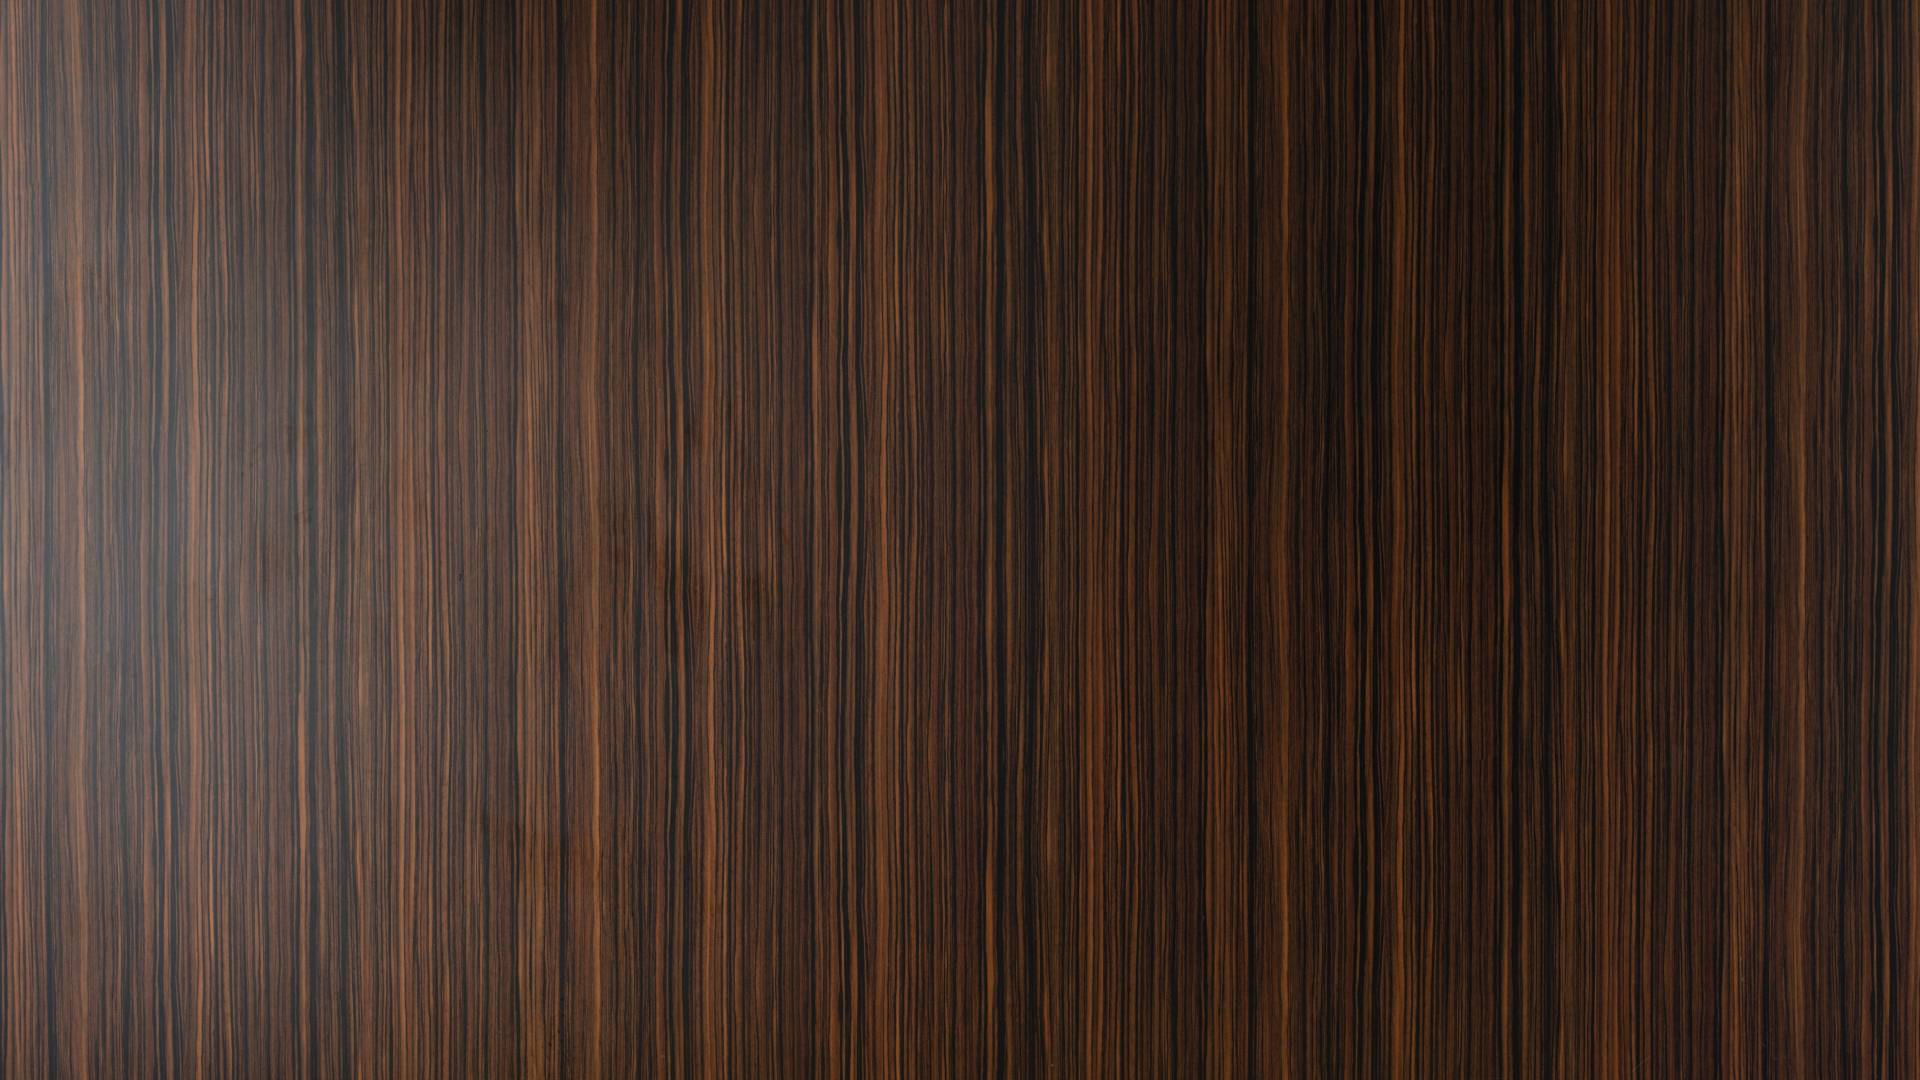
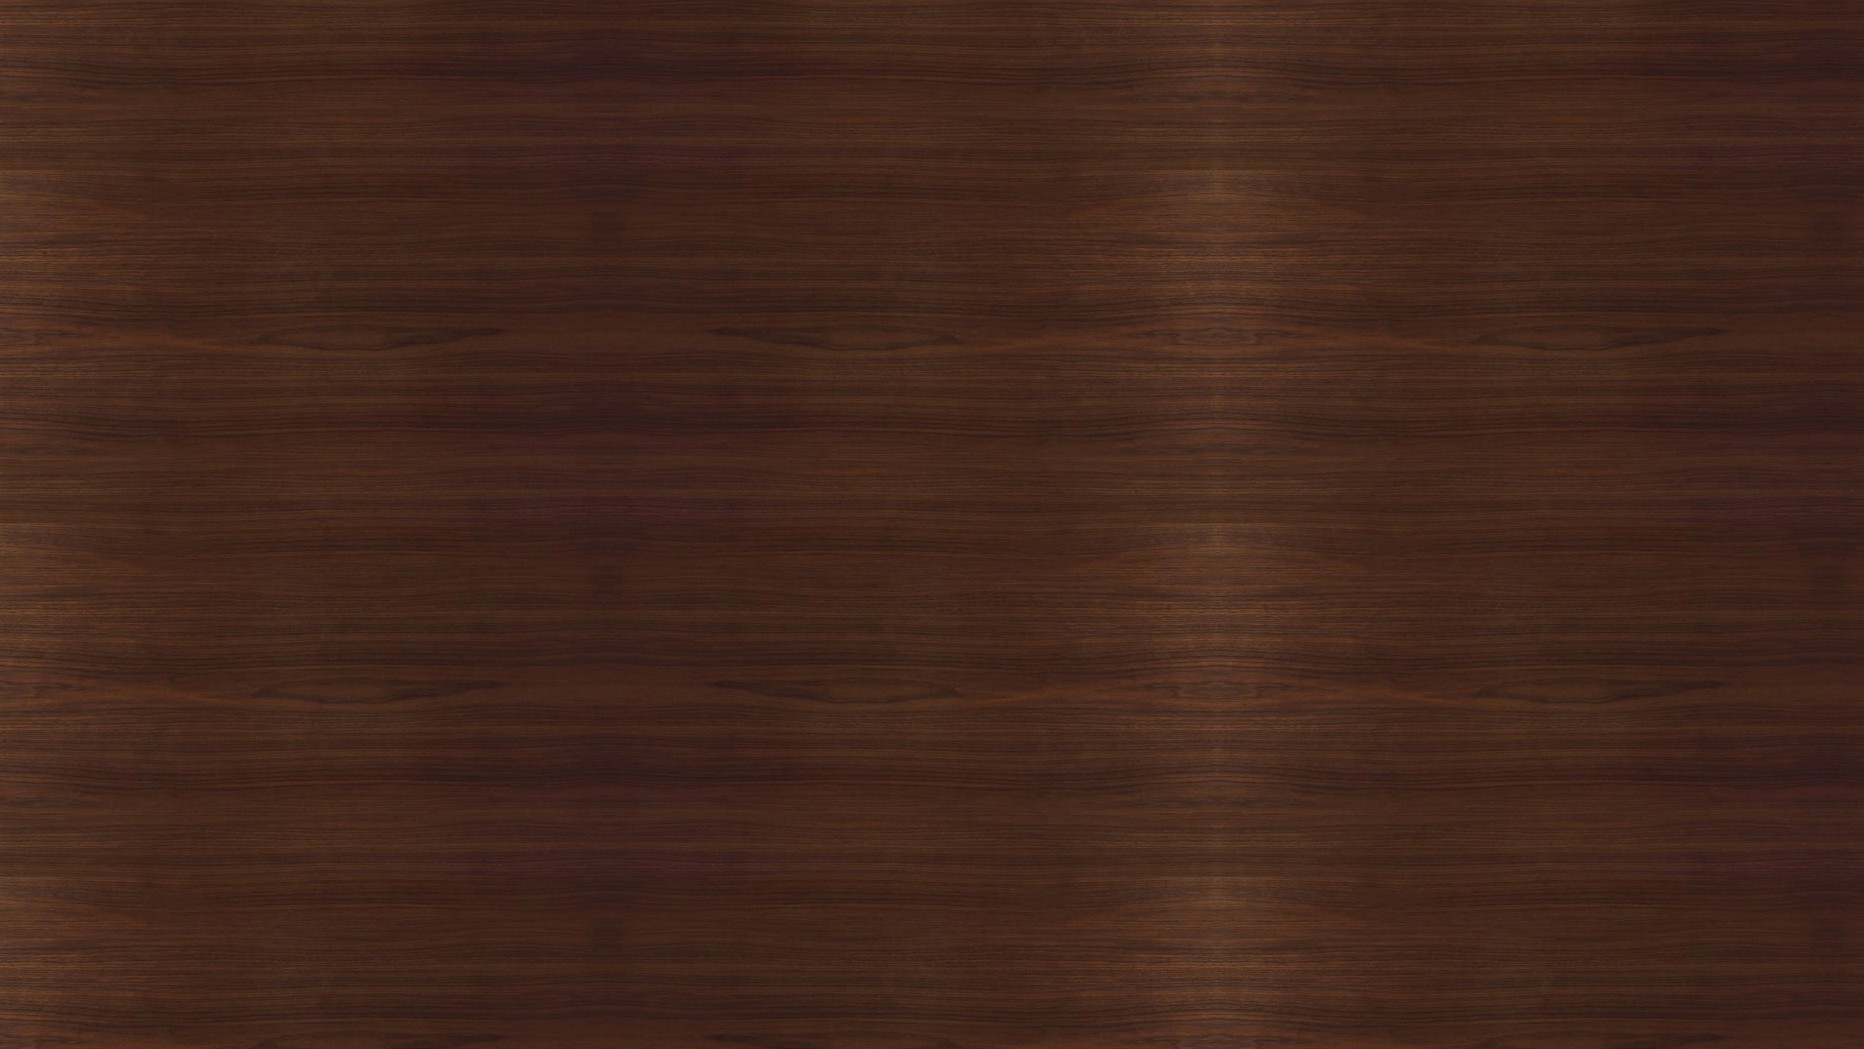
updates

diff --git a/components/Hero.css b/components/Hero.css
@@ -6,7 +6,7 @@
   display: flex;
   align-items: flex-end; /* Position at bottom */
   overflow: hidden;
-  background-color: #000;
+  background-color: #fff;
 }
 
 .hero-bg {

diff --git a/components/Services.css b/components/Services.css
@@ -6,6 +6,7 @@
 
 .services-bg-image {
   object-fit: cover;
+  background-position: center;
   z-index: -1;
   pointer-events: none;
 }